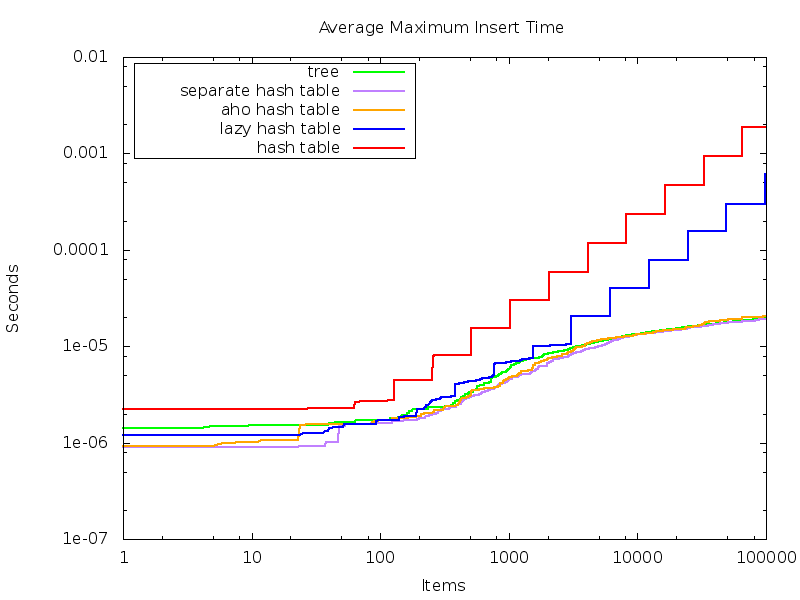
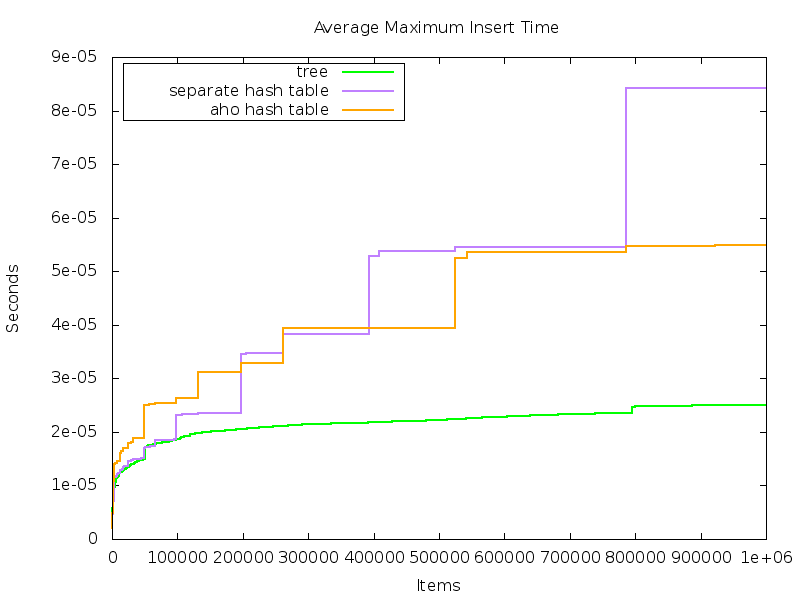
different sized benchmarks

diff --git a/src/benchmark/insert-maxtime.cc b/src/benchmark/insert-maxtime.cc
@@ -8,22 +8,62 @@
 
 #include <sched.h>
 
-typedef int sample_type;
+
+
+struct some {
+  const static int some_size = 2;
+  int x[some_size];
+  static some random() {
+    some ans;
+    for (int i = 0; i < some::some_size; ++i) {
+      ans.x[i] = rand();
+    }
+    return ans;
+  }
+  bool operator==(const some& that) const {
+    for (int i = 0; i < some::some_size; ++i) {
+      if (x[i] != that.x[i]) return false;
+    }
+    return true;
+  }
+  bool operator<(const some& that) const {
+    for (int i = 0; i < some::some_size; ++i) {
+      if (x[i] < that.x[i]) return true;
+      if (x[i] > that.x[i]) return false;
+    }
+    return false;
+  }
+
+};
+
+size_t hashf(const some & x) {
+  size_t ans;
+  for (int i = 0; i < some::some_size; ++i) {
+    ans ^= x.x[i];
+  }
+  return ans;
+}
+
+size_t hash(const some & x) {
+  return hashf(x);
+}
+
+typedef some sample_type;
 
 template<typename T>
 std::vector<std::pair<unsigned, double> > test(const unsigned size, const unsigned samples) {
   unsigned i = 0;
   std::vector<std::pair<unsigned, double> > ans;//(size * samples); 
-  high_priority zz;
+  //high_priority zz;
   for (unsigned k = 0; k < samples; ++k) { 
     T playground;
     double leader = 0.0;
     for (unsigned j = 0; j < size; ++j) { 
       const auto start = get_time();
-      playground.insert(rand());
+      playground.insert(some::random());
       const auto here = get_time() - start; 
       leader = std::max(leader, here);
-      std::cout << j << '\t' << leader << endl;
+      ans.push_back(make_pair(j,leader));
     } 
   }
   return ans;
@@ -40,7 +80,7 @@ void print_test(std::vector<std::pair<unsigned, double> > x) {
 }
 
 int main(int argc, char ** argv) {
-  unsigned size = 100000;//00;
+  unsigned size = 1000000;//00;
   unsigned samples = 100;
   if (4 == argc) {
     size = read<unsigned>(argv[2]);

diff --git a/src/lazy-linear.cc b/src/lazy-linear.cc
@@ -119,6 +119,27 @@ struct BasicBitArray {
   }
 };
 
+/*
+struct BasicBitArray {
+  vector<bool> data;
+  BasicBitArray(const size_t n) : data(n, false) {}
+  BasicBitArray(const BasicBitArray&) = delete;
+  BasicBitArray& operator=(const BasicBitArray&) = delete;
+  bool check(const size_t& i) const {
+    return data[i];
+  }
+  void set(const size_t& i) {
+    data[i] = true;
+  }
+  void unset(const size_t& i) {
+    data[i] = true;
+  }
+  void swap(BasicBitArray * that) {
+    data.swap(that->data);
+  }
+};
+*/
+
 struct AhoBitArray {
   size_t count;
   size_t* sparse;
